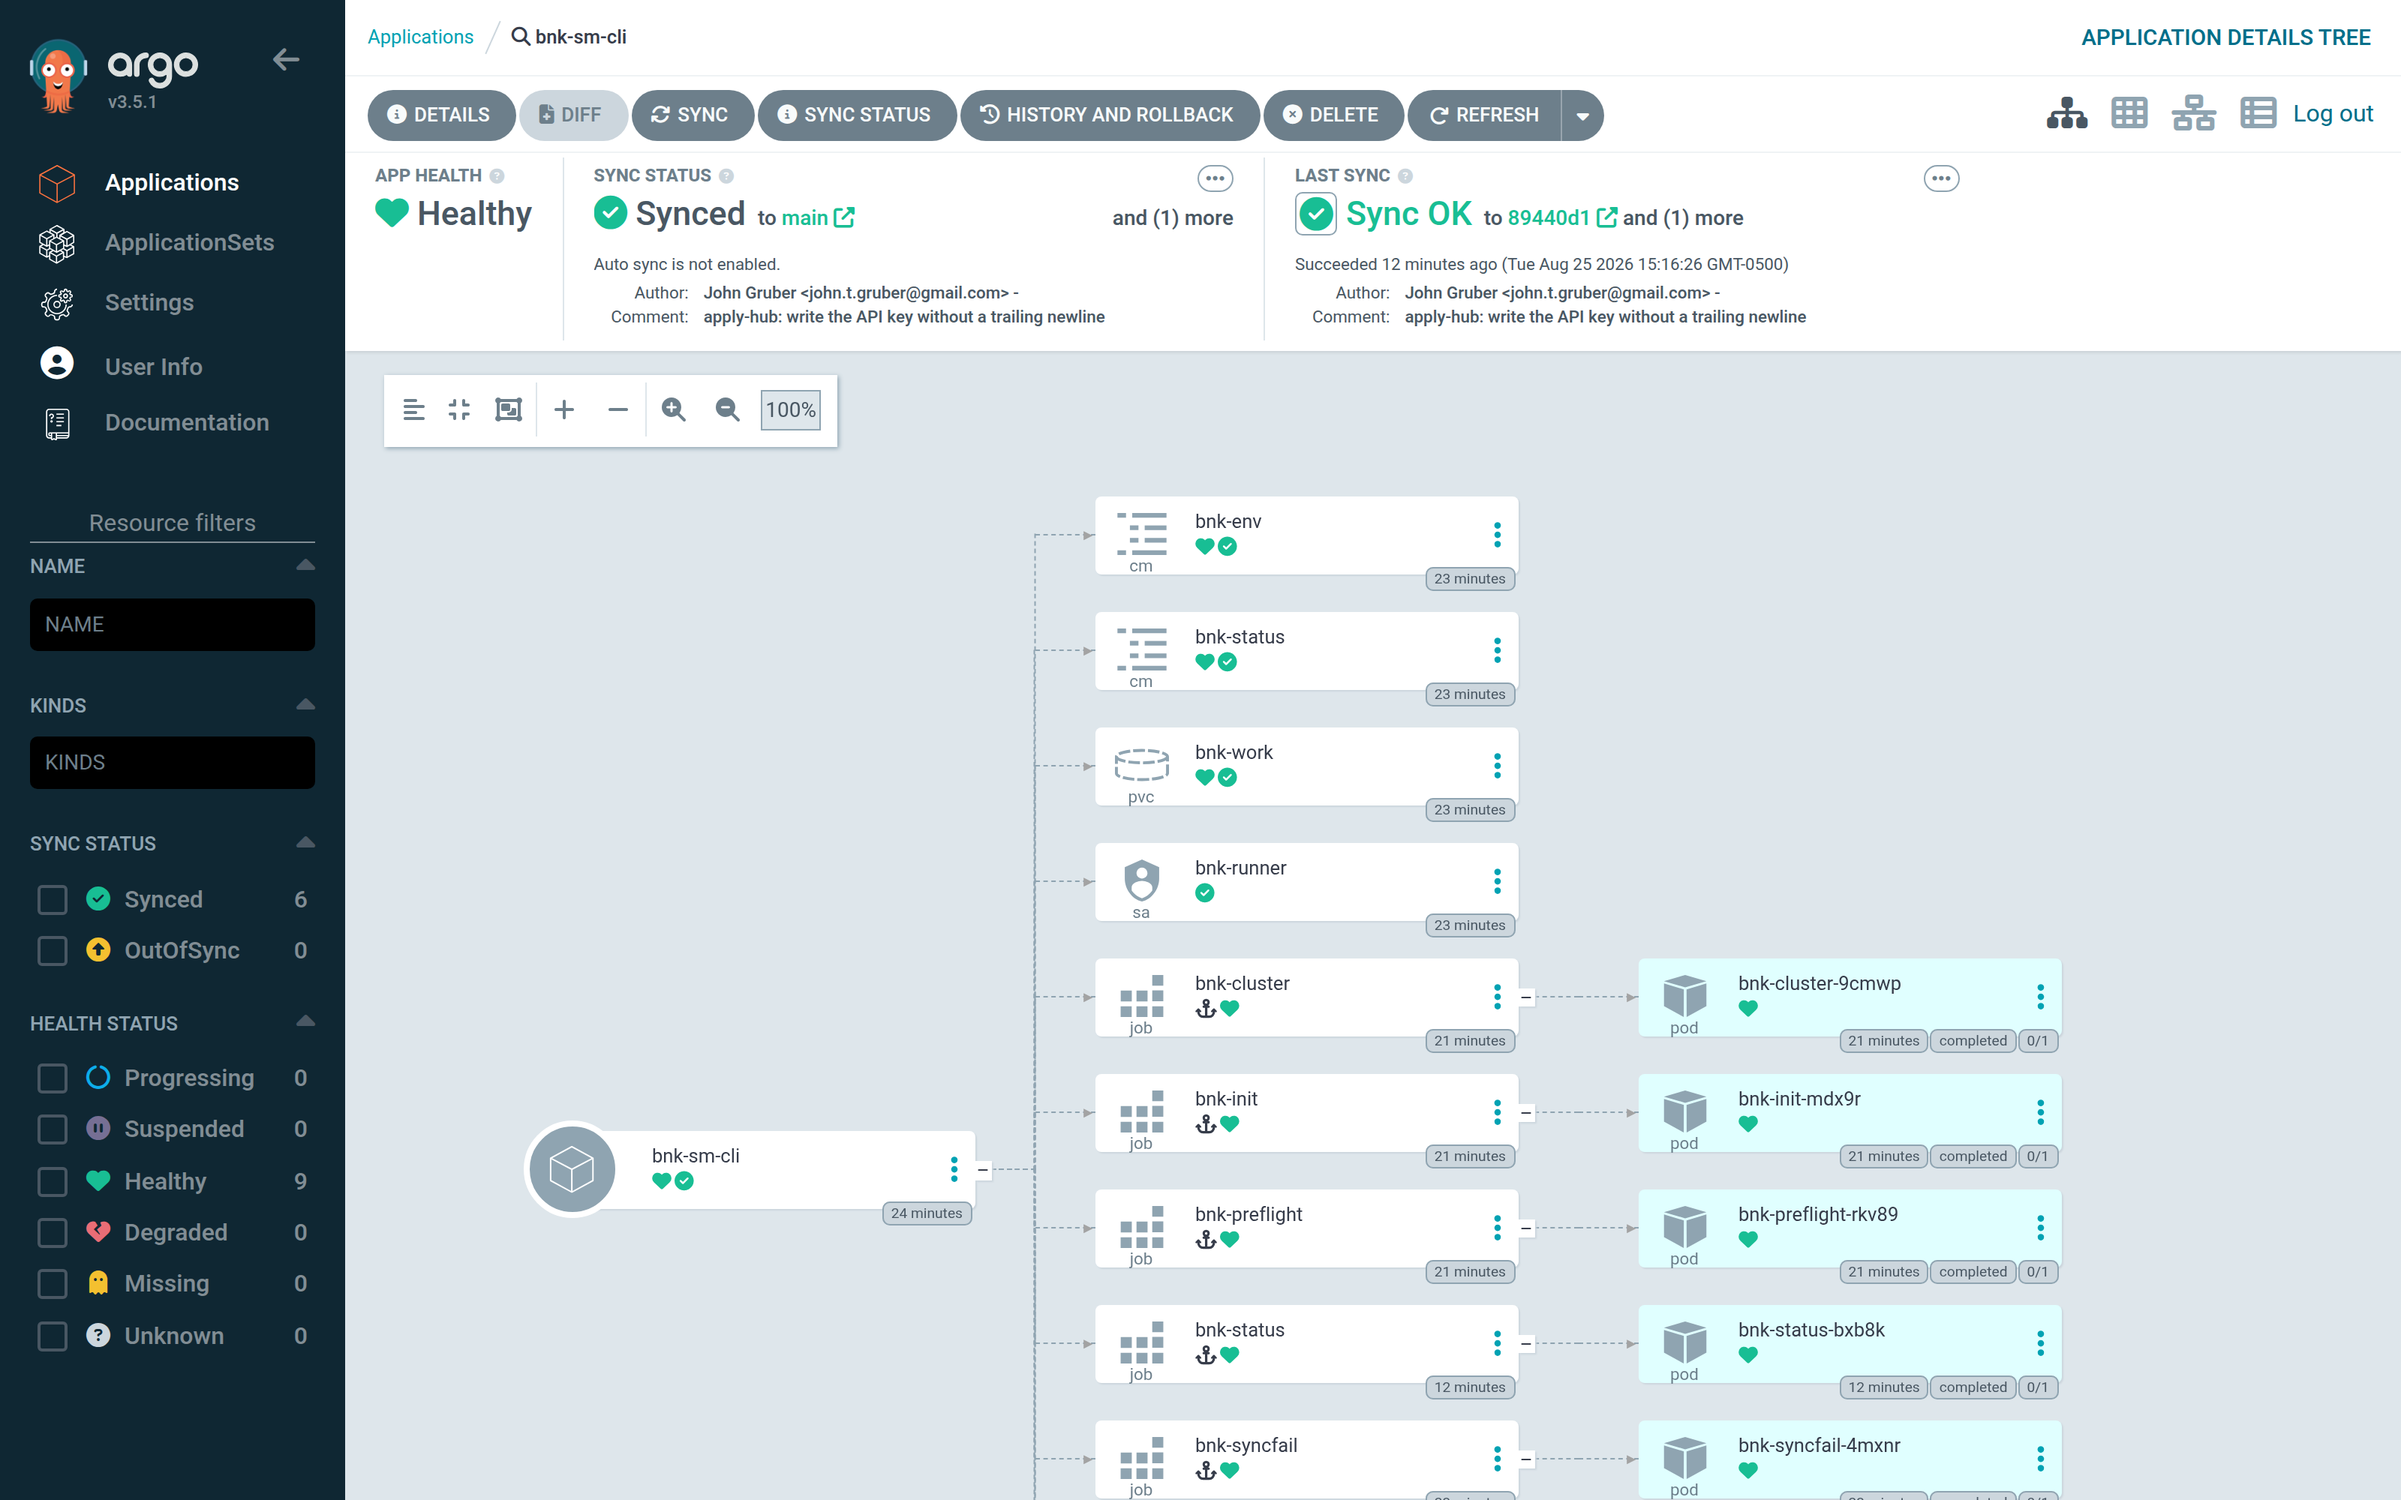
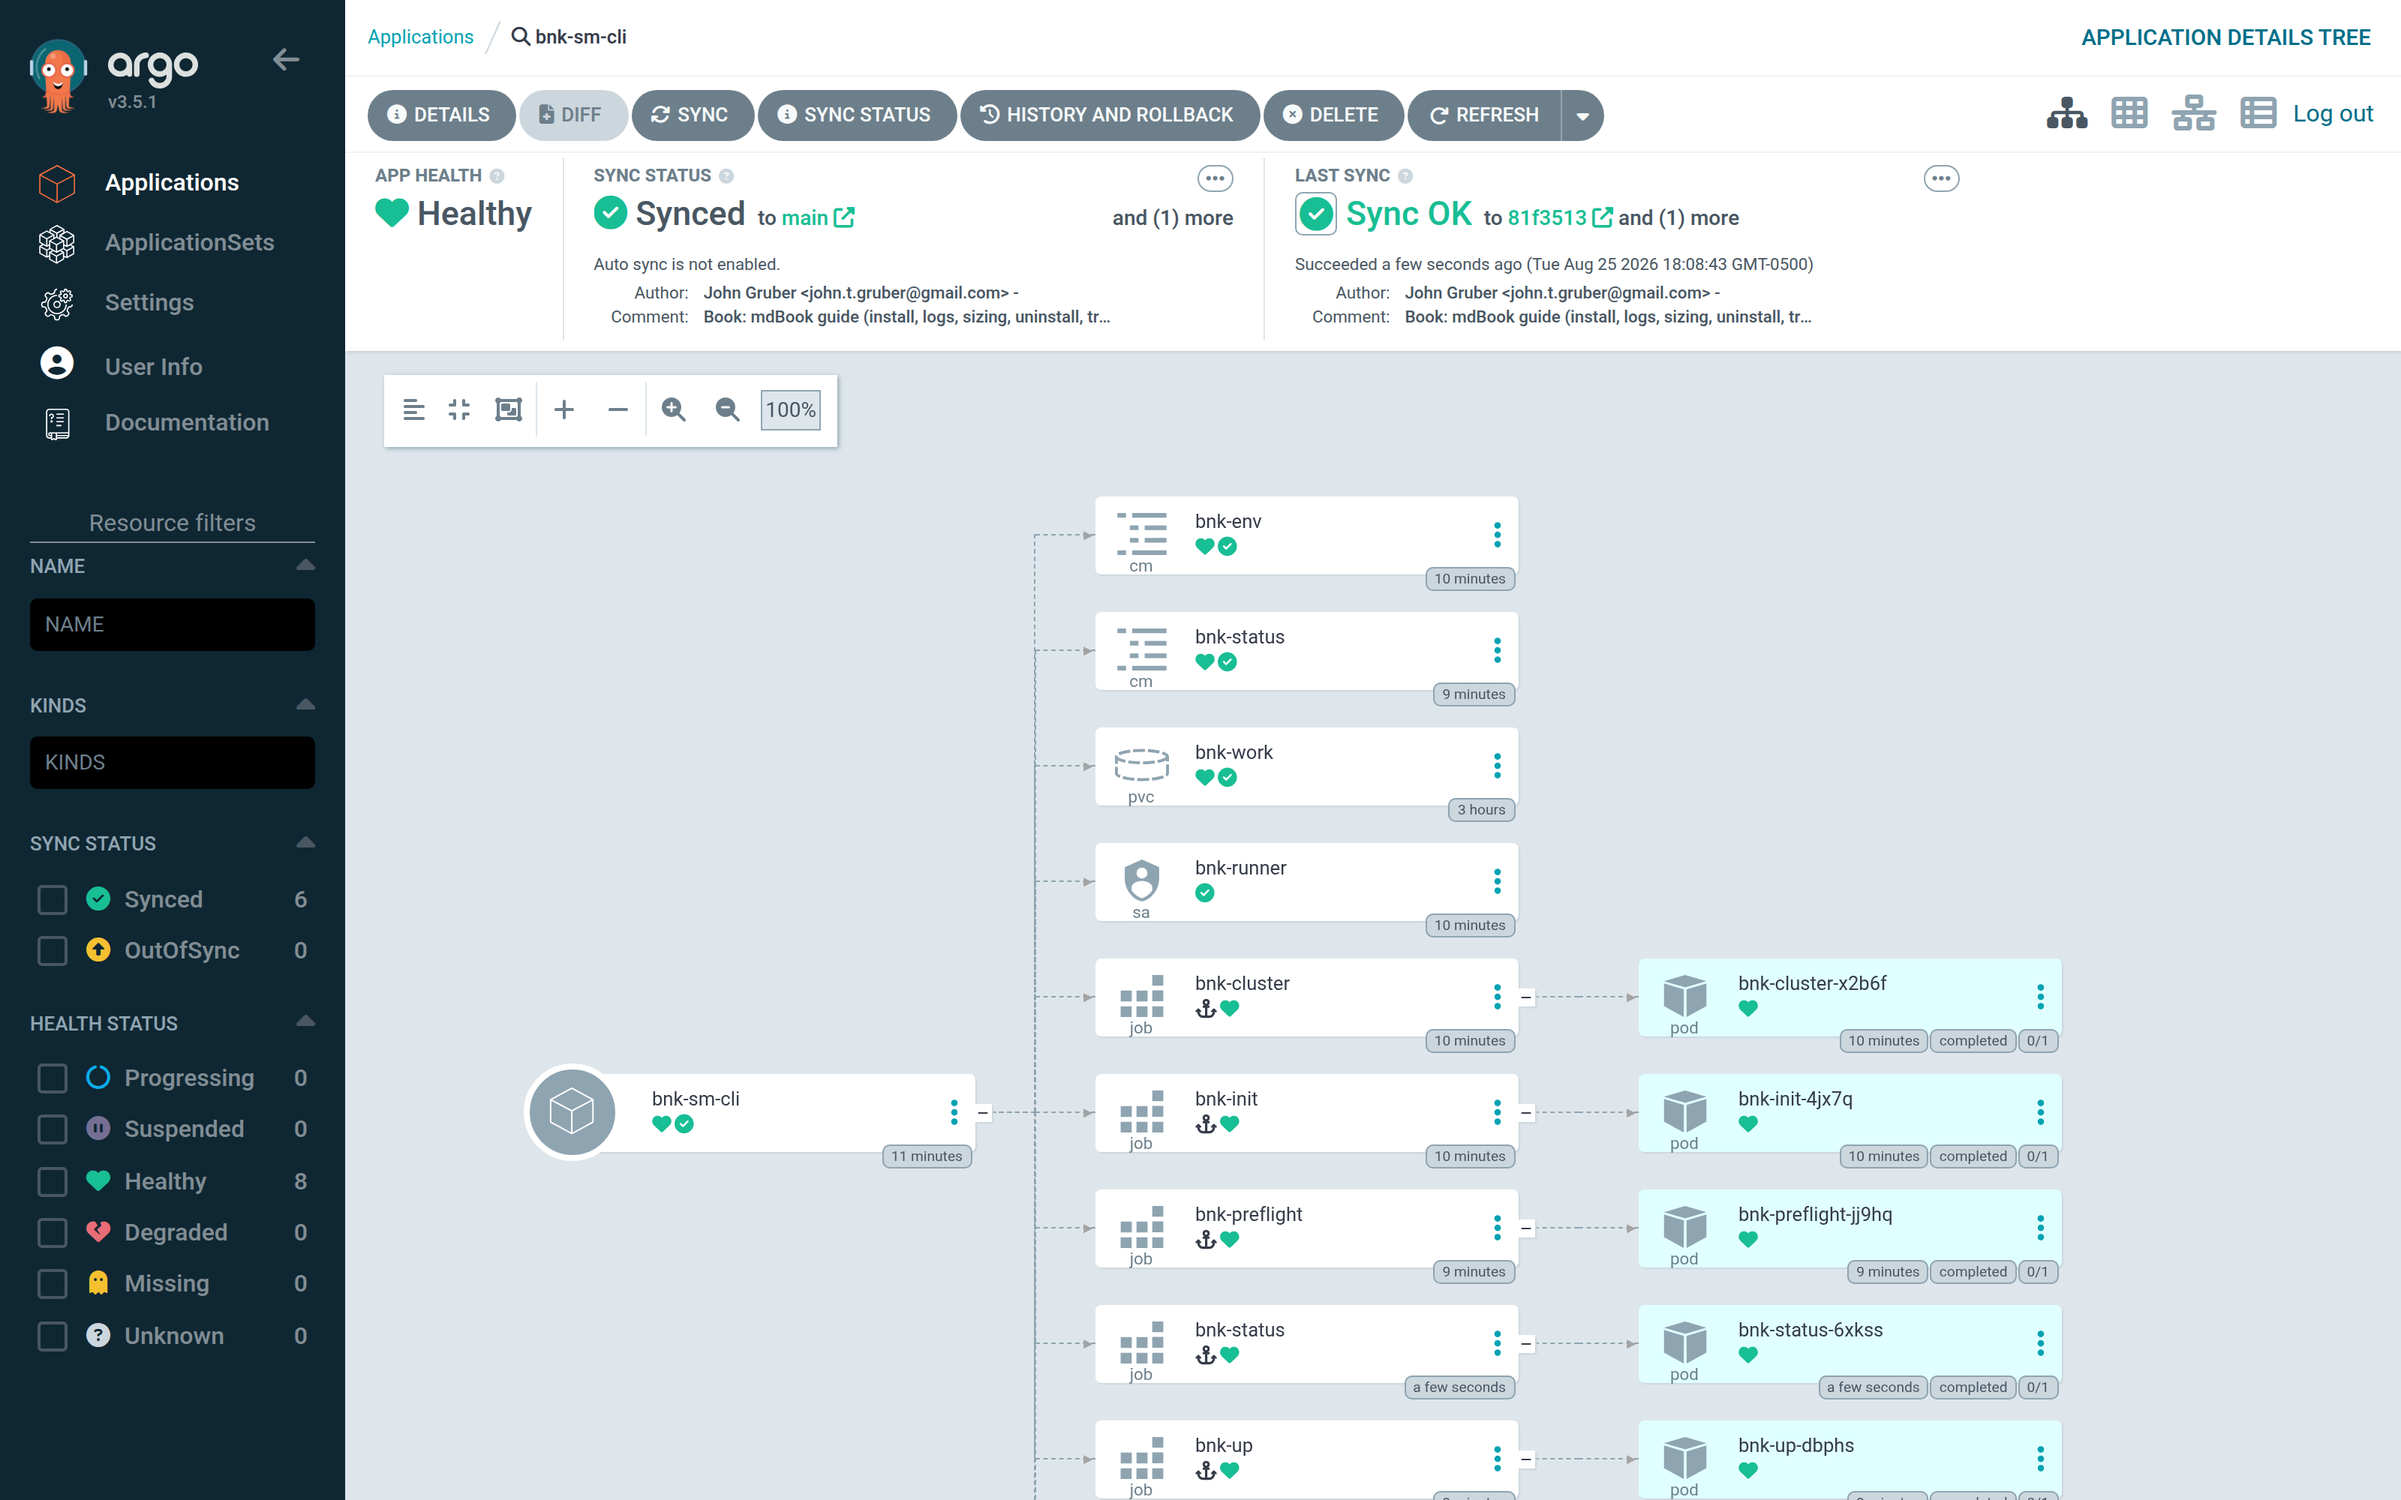
bnk-env carries the lifecycle label so a lifecycle flip shows OutOfSync; book: Sources tab for parameter overrides, live-run screenshots
Claude-Session: https://claude.ai/code/session_013dz6ug5kXKb94iL9fYSWhs

diff --git a/book/capture/capture.js b/book/capture/capture.js
@@ -13,6 +13,8 @@
 //   settings-repos        Settings → Repositories (connection status)
 //   settings-projects     Settings → Projects
 //   delete-dialog         the Delete dialog over the Application
+//   details-sources       Details → Sources (multi-source app: the Helm values / parameter overrides live here)
+//   details-sources:<sfx> same, saved as details-sources-<sfx>.png
 //
 // WHY THIS LIVES WITH THE BOOK: the screenshots ARE the guide. The thing that
 // produces them is versioned next to it so the next person can refresh them.
@@ -135,6 +137,18 @@ const sleep = ms => new Promise(r => setTimeout(r, ms));
       }
       else if (kind === 'settings-repos') { await goto(`${base}/settings/repos`); await shot('settings-repositories'); }
       else if (kind === 'settings-projects') { await goto(`${base}/settings/projects`); await shot('settings-projects'); }
+      else if (kind === 'details-sources' || kind === 'details-params') {
+        await goto(appUrl());
+        await clickText('button', 'details'); await sleep(1500);
+        // the sliding panel's tabs are anchors/spans; find "Parameters" by text
+        await page.evaluate(() => { const t = Array.from(document.querySelectorAll('a,span,div')).find(e => ['Sources','Parameters'].includes((e.textContent || '').trim()) && e.children.length === 0); if (t) t.click(); });
+        await sleep(2000);
+        // expand the first (chart) source so its Helm parameters are visible
+        await page.evaluate(() => { const t = Array.from(document.querySelectorAll('a,span,div,i')).find(e => /charts\/bnk-workspace/.test(e.textContent || '') && e.children.length <= 2); if (t) t.click(); });
+        await sleep(1500);
+        await shot(rest[0] ? `details-sources-${rest[0]}` : 'details-sources');
+        await page.keyboard.press('Escape');
+      }
       else if (kind === 'delete-dialog') {
         await goto(appUrl());
         await clickText('button', 'delete'); await sleep(1500);

diff --git a/book/src/10-uninstall.md b/book/src/10-uninstall.md
@@ -27,11 +27,23 @@ lifecycle: down
 git commit -am "sm-cli: tear BNK down" && git push
 ```
 
-…or, entirely from the UI, override the Helm value on the Application:
-**Applications → bnk-sm-cli → Details → Parameters → Edit**, set
-`lifecycle` to `down`, **Save**. (Argo CD stores the override in the
-Application spec; the next Git change to the overlay will not undo it until
-you remove the override.)
+…or, entirely from the UI, override the Helm value on the Application. This
+is a *multi-source* Application (the chart and the values overlay are two
+sources), so the Helm values live under **Details → Sources**: open
+**Applications → bnk-sm-cli → Details**, choose the **Sources** tab, expand
+the `charts/bnk-workspace` source, click **Edit** next to its parameters, add
+`lifecycle` = `down`, **Save**. Argo CD stores the override in the Application
+spec (`spec.sources[0].helm.parameters`); a later Git change to the overlay
+will not undo it until you remove the override.
+
+![Details → Sources, where a chart value can be overridden from the UI](images/details-sources-down.png)
+
+The same override from the CLI, which is what this book's captures used:
+
+```bash
+kubectl -n argocd patch application bnk-sm-cli --type json \
+  -p '[{"op":"add","path":"/spec/sources/0/helm/parameters","value":[{"name":"lifecycle","value":"down"}]}]'
+```
 
 Either way the Application shows **OutOfSync** — the desired state now
 contains `bnk-down`:

diff --git a/book/src/07-bnk-up-logs.md b/book/src/07-bnk-up-logs.md
@@ -62,8 +62,12 @@ workspace` — and the sync stops before `bnk-up` exists.
 ## bnk-up: plan, apply, gates
 
 This is the log to read. It is long — 3,500 lines for `sm-cli` — because it is
-Terraform's own output plus roksbnkctl's guards and post-apply steps, and the
-UI streams it live while the Job runs.
+Terraform's own output plus roksbnkctl's guards and post-apply steps. The UI
+streams it live while the Job runs (the **follow** toggle is on by default):
+
+![bnk-up logs while the apply is running](images/logs-bnk-up-running.png)
+
+…and keeps it after the Job completes, scrolled here to the end:
 
 ![bnk-up logs, complete](images/logs-bnk-up-complete.png)
 

diff --git a/book/src/05-workspace.md b/book/src/05-workspace.md
@@ -172,5 +172,8 @@ kubectl apply -f apps/sm-cli-application.yaml
 For a fleet, add the workspace to `apps/applicationset-workspaces.yaml`
 instead; the ApplicationSet renders the same Application per entry.
 
-The Application appears **OutOfSync / Missing** — Argo CD has rendered the
-chart but nothing is applied yet. That is the starting line for Step 3.
+The Application appears **OutOfSync** — Argo CD has rendered the chart and
+listed every resource and hook it would create, but nothing is applied yet.
+That is the starting line for Step 3.
+
+![The Application before its first sync](images/03-app.png)

diff --git a/book/src/06-install.md b/book/src/06-install.md
@@ -50,6 +50,11 @@ always:
 5. **`bnk-status`** (PostSync) — captures `bnk status --json` into the
    `bnk-status` ConfigMap.
 
+While `bnk-up` runs, the tree shows the gates completed and the apply in
+progress — the Application is *Progressing*, the operation *Syncing*:
+
+![The tree while bnk-up is running](images/app-syncing.png)
+
 If any gate fails, the sync stops there: `bnk-up` is never created, the
 `bnk-syncfail` hook records which Job failed and why, and the Application turns
 **Degraded** with that message. [Troubleshooting](12-troubleshooting.md) shows
